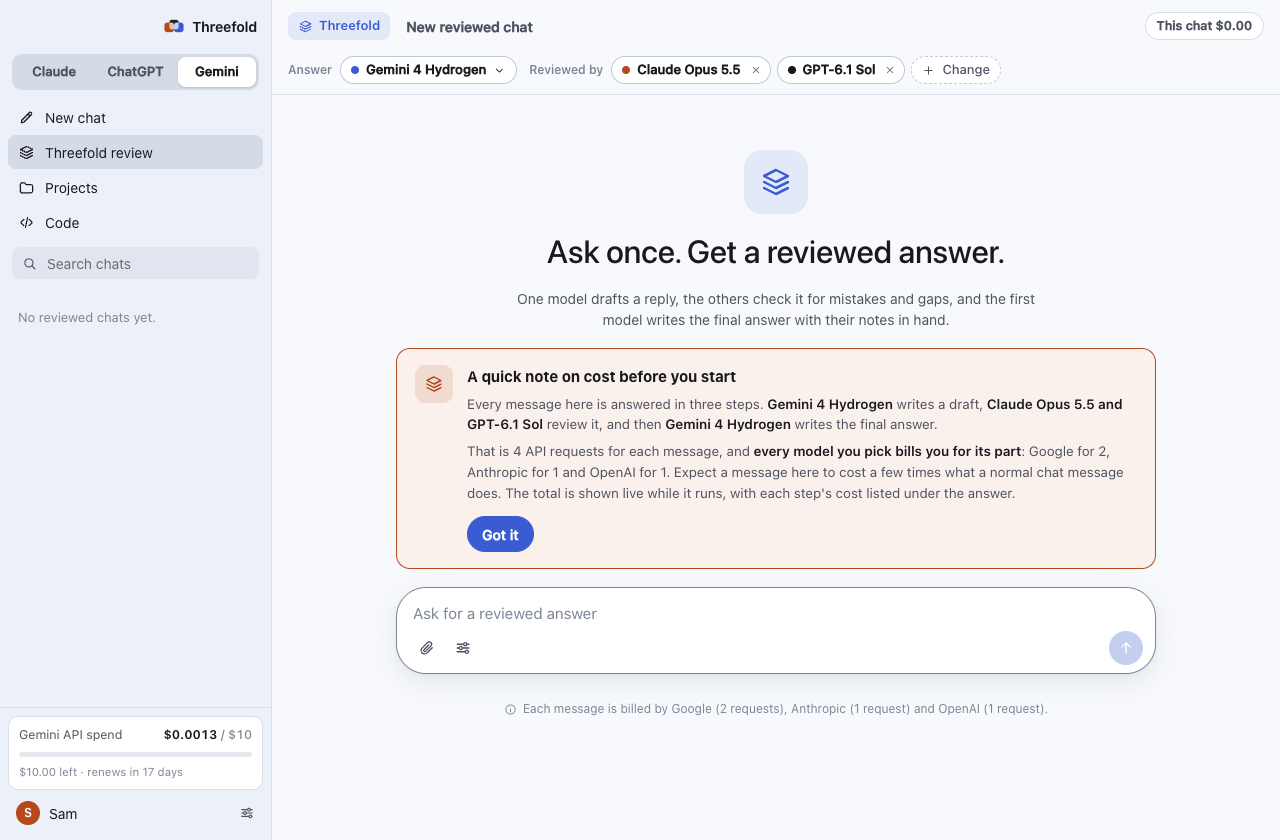
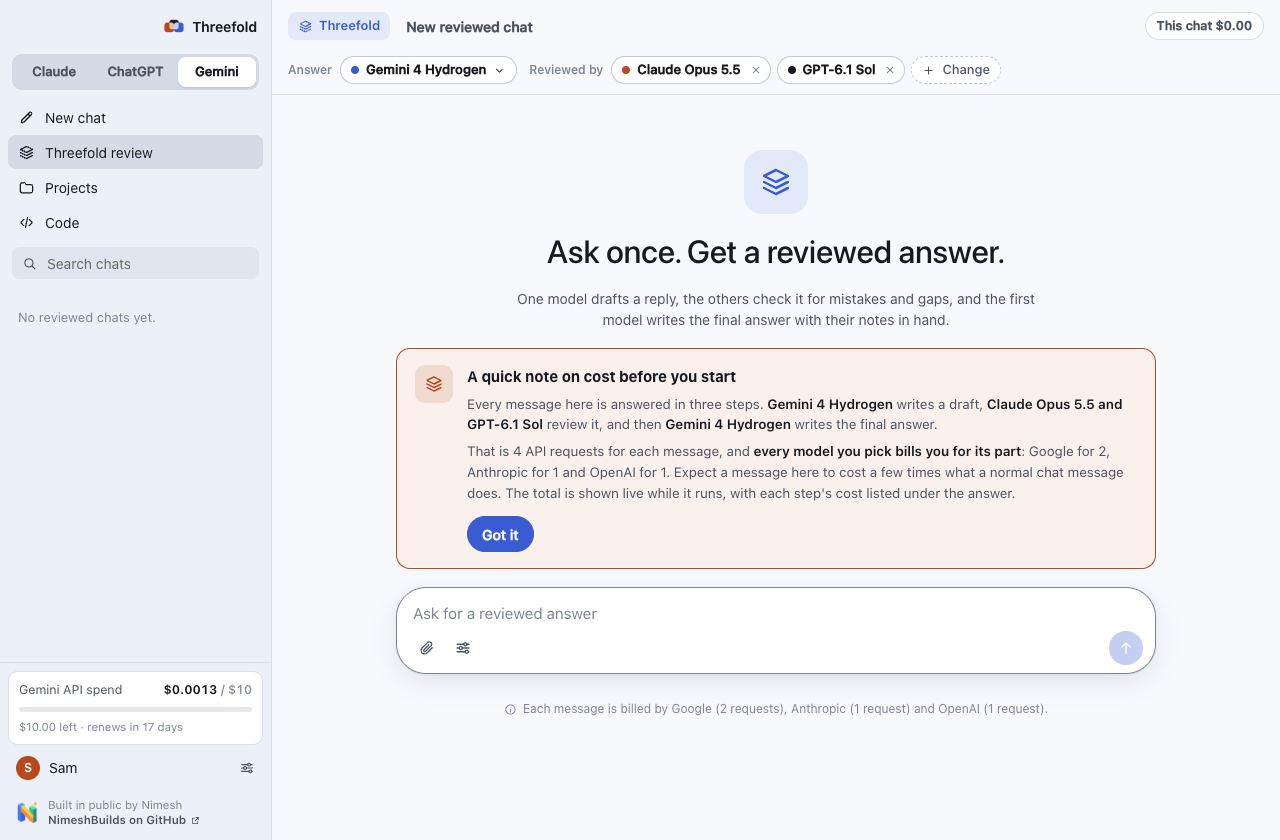
Credit NimeshBuilds in the sidebar and About screen
Add a small 'Built in public by Nimesh · NimeshBuilds on GitHub' credit with
the NimeshBuilds mark at the bottom of the sidebar, and a fuller note with
the organisation link in Settings > About.

diff --git a/src/renderer/src/components/Settings.tsx b/src/renderer/src/components/Settings.tsx
@@ -1,7 +1,8 @@
 import { useEffect, useState } from 'react'
 import type { ImportResult, Memory, Provider, SpendSummary } from '@shared/types'
 import { MODELS, PRICING_AS_OF, currentRates, formatTokens, formatUsd, modelLabel } from '@shared/pricing'
-import { API_NAME, MODE_NAME, daysUntil, shortDate } from '../lib/format'
+import nimeshbuildsLogo from '../assets/nimeshbuilds.png'
+import { API_NAME, MODE_NAME, ORG_URL, daysUntil, shortDate } from '../lib/format'
 import { useApp, type SettingsTab } from '../state'
 import { Icon } from './Icon'
 import { Logo } from './Logo'
@@ -541,6 +542,17 @@ export function SettingsModal() {
                 Google. “Claude”, “ChatGPT” and “Gemini” are trademarks of their owners and are used here only to say
                 which API a mode connects to.
               </p>
+              <div className="built-by-card">
+                <img src={nimeshbuildsLogo} width={40} height={40} alt="NimeshBuilds logo" />
+                <div>
+                  <strong>Built in public by Nimesh</strong>
+                  <p>
+                    Threefold is built by Nimesh under NimeshBuilds, a build-in-public organisation on GitHub where the
+                    work is shared as it happens. Check out the GitHub org:{' '}
+                    <Link href={ORG_URL}>github.com/nimeshbuilds</Link>
+                  </p>
+                </div>
+              </div>
               <h3>Prices used for the meter</h3>
               <p className="muted small">
                 USD per 1M tokens, from the providers' pricing pages on {PRICING_AS_OF}. Web search adds $0.01 per search

diff --git a/src/renderer/src/components/Sidebar.tsx b/src/renderer/src/components/Sidebar.tsx
@@ -1,7 +1,8 @@
 import { useEffect, useMemo, useState } from 'react'
 import type { ConversationMeta, Provider } from '@shared/types'
 import { formatUsd } from '@shared/pricing'
-import { MODE_NAME, daysUntil, groupByRecency } from '../lib/format'
+import nimeshbuildsLogo from '../assets/nimeshbuilds.png'
+import { MODE_NAME, ORG_URL, daysUntil, groupByRecency } from '../lib/format'
 import { connectedProviders, useApp } from '../state'
 import { Icon } from './Icon'
 import { Wordmark } from './Logo'
@@ -288,6 +289,19 @@ export function Sidebar() {
           <span className="avatar">{(name.trim()[0] ?? 'T').toUpperCase()}</span>
           <span className="user-name">{name.trim() || 'Settings'}</span>
           <Icon name="settings" size={16} />
+        </button>
+        <button
+          className="built-by"
+          onClick={() => void api.app.openExternal(ORG_URL)}
+          title="Open the NimeshBuilds organisation on GitHub (github.com/nimeshbuilds)"
+        >
+          <img src={nimeshbuildsLogo} width={22} height={22} alt="" />
+          <span className="built-by-text">
+            <span>Built in public by Nimesh</span>
+            <span className="built-by-org">
+              NimeshBuilds on GitHub <Icon name="external" size={11} />
+            </span>
+          </span>
         </button>
       </div>
     </aside>

diff --git a/src/renderer/src/styles/app.css b/src/renderer/src/styles/app.css
@@ -2441,3 +2441,72 @@ button.panel-chip:hover:not(:disabled) {
   color: var(--text-2);
   padding-top: 10px;
 }
+
+/* ---------- credit: built in public by Nimesh, NimeshBuilds ---------- */
+
+.built-by {
+  display: flex;
+  align-items: center;
+  gap: 9px;
+  width: 100%;
+  padding: 6px 9px 4px;
+  border-radius: 8px;
+  text-align: left;
+  color: var(--text-3);
+  font-size: 11.5px;
+  line-height: 1.35;
+}
+
+.built-by img {
+  flex: none;
+  opacity: 0.85;
+  transition: opacity 0.15s;
+}
+
+.built-by-text {
+  display: flex;
+  flex-direction: column;
+  min-width: 0;
+}
+
+.built-by-org {
+  display: inline-flex;
+  align-items: center;
+  gap: 4px;
+  font-weight: 600;
+  color: var(--text-2);
+}
+
+.built-by:hover {
+  background: var(--hover);
+  color: var(--text-2);
+}
+
+.built-by:hover img {
+  opacity: 1;
+}
+
+.built-by:hover .built-by-org {
+  color: var(--text);
+}
+
+.built-by-card {
+  display: flex;
+  align-items: center;
+  gap: 14px;
+  margin: 18px 0 6px;
+  padding: 14px 16px;
+  border-radius: 14px;
+  border: 1px solid var(--border);
+  background: var(--surface);
+}
+
+.built-by-card img {
+  flex: none;
+}
+
+.built-by-card p {
+  margin: 3px 0 0;
+  font-size: 13px;
+  color: var(--text-2);
+}

diff --git a/src/renderer/src/lib/format.ts b/src/renderer/src/lib/format.ts
@@ -1,6 +1,9 @@
 import type { ConversationMeta, Provider } from '@shared/types'
 
 export const MODE_NAME: Record<Provider, string> = { claude: 'Claude', chatgpt: 'ChatGPT', gemini: 'Gemini' }
+/** NimeshBuilds, the GitHub organisation this app is built under. */
+export const ORG_URL = 'https://github.com/nimeshbuilds'
+
 export const API_NAME: Record<Provider, string> = { claude: 'Anthropic', chatgpt: 'OpenAI', gemini: 'Google' }
 
 export interface ChatGroup {

diff --git a/README.md b/README.md
@@ -157,7 +157,7 @@ pnpm test:e2e
 **Tested automatically, with no API key:**
 
 - 88 unit tests: price maths including announced price changes, the three export parsers, storage and the spend ledger, file-tool path confinement, the cost meter, and the Threefold review engine (ordering, prompts, failed or missing reviewers, stop, cost adding up).
-- 53 end-to-end checks that drive the real app in demo mode, on both the development build and the packaged `Threefold.app`: the wizard, all three modes, live cost, the preview panel, the Threefold review tab and its billing notice, projects, memory, spend, dark theme and what is written to disk.
+- 56 end-to-end checks that drive the real app in demo mode, on both the development build and the packaged `Threefold.app`: the wizard, all three modes, live cost, the preview panel, the Threefold review tab and its billing notice, projects, memory, spend, dark theme and what is written to disk.
 
 **Not yet run against the real APIs.** The provider code is written against the official SDK type definitions and documentation and compiles against them, but no request with a real key has been made from this repository. A live suite is ready for that:
 

diff --git a/brand/BRAND.md b/brand/BRAND.md
@@ -80,6 +80,10 @@ Threefold uses the fonts already on the Mac and ships none of its own.
 - No hype and no exclamation marks. The app is a tool.
 - Sentence case everywhere: "New chat", "Import history".
 
+## Credit
+
+Threefold is built in public by Nimesh under NimeshBuilds (https://github.com/nimeshbuilds). The app carries a small credit at the bottom of the sidebar and a fuller one in Settings → About, each with the NimeshBuilds mark and a link to the organisation. Keep the credit quiet: muted text, the mark at 22 px or smaller in the sidebar, and no more than one per screen. The NimeshBuilds mark is used as supplied, never recoloured or combined with the Threefold mark.
+
 ## What Threefold must never look like
 
 Threefold is independent. It is not made by, affiliated with or endorsed by Anthropic, OpenAI or Google.
